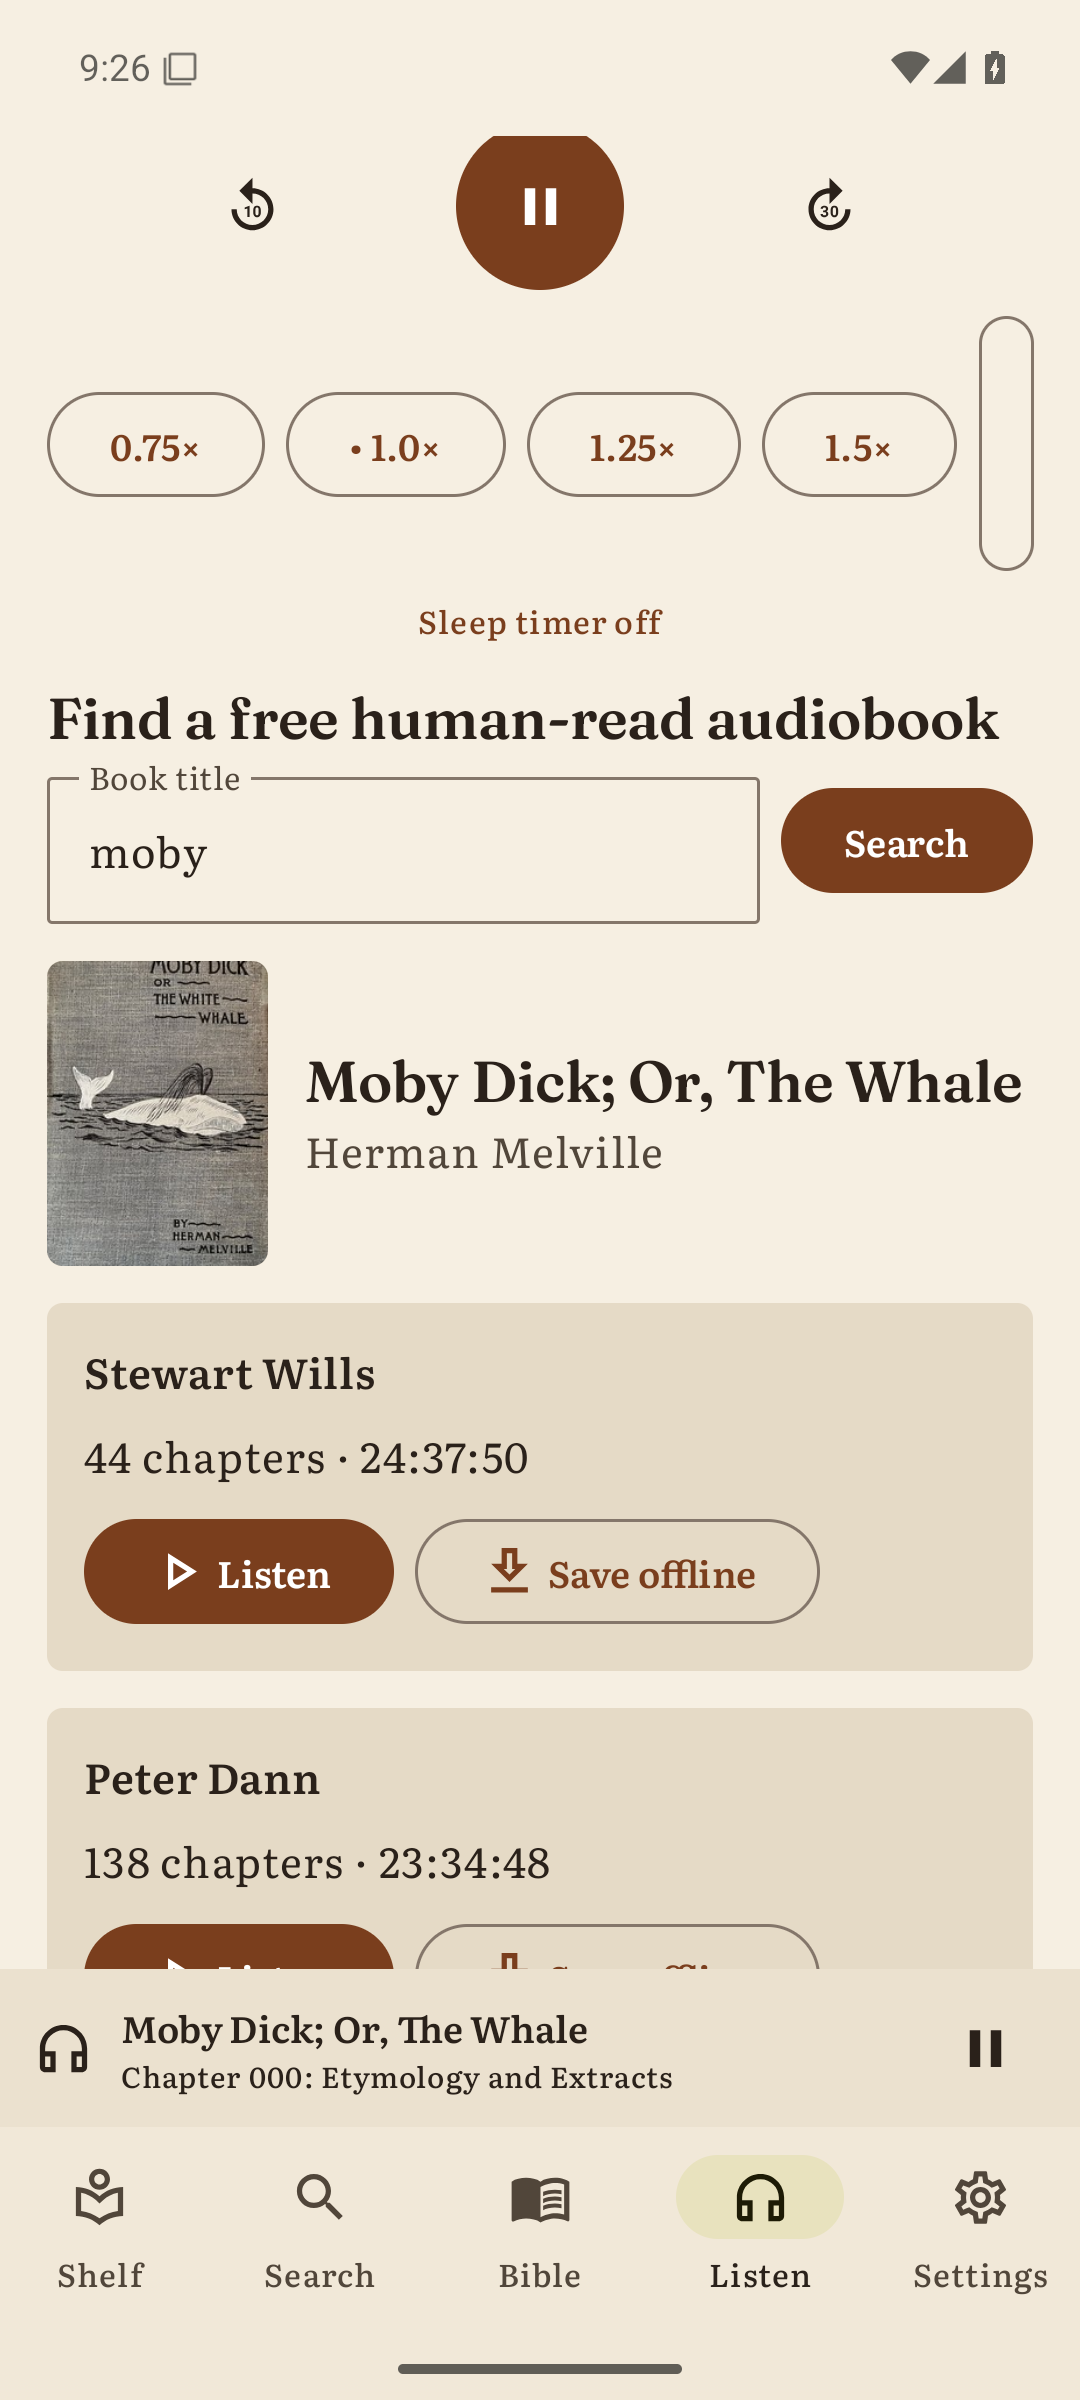
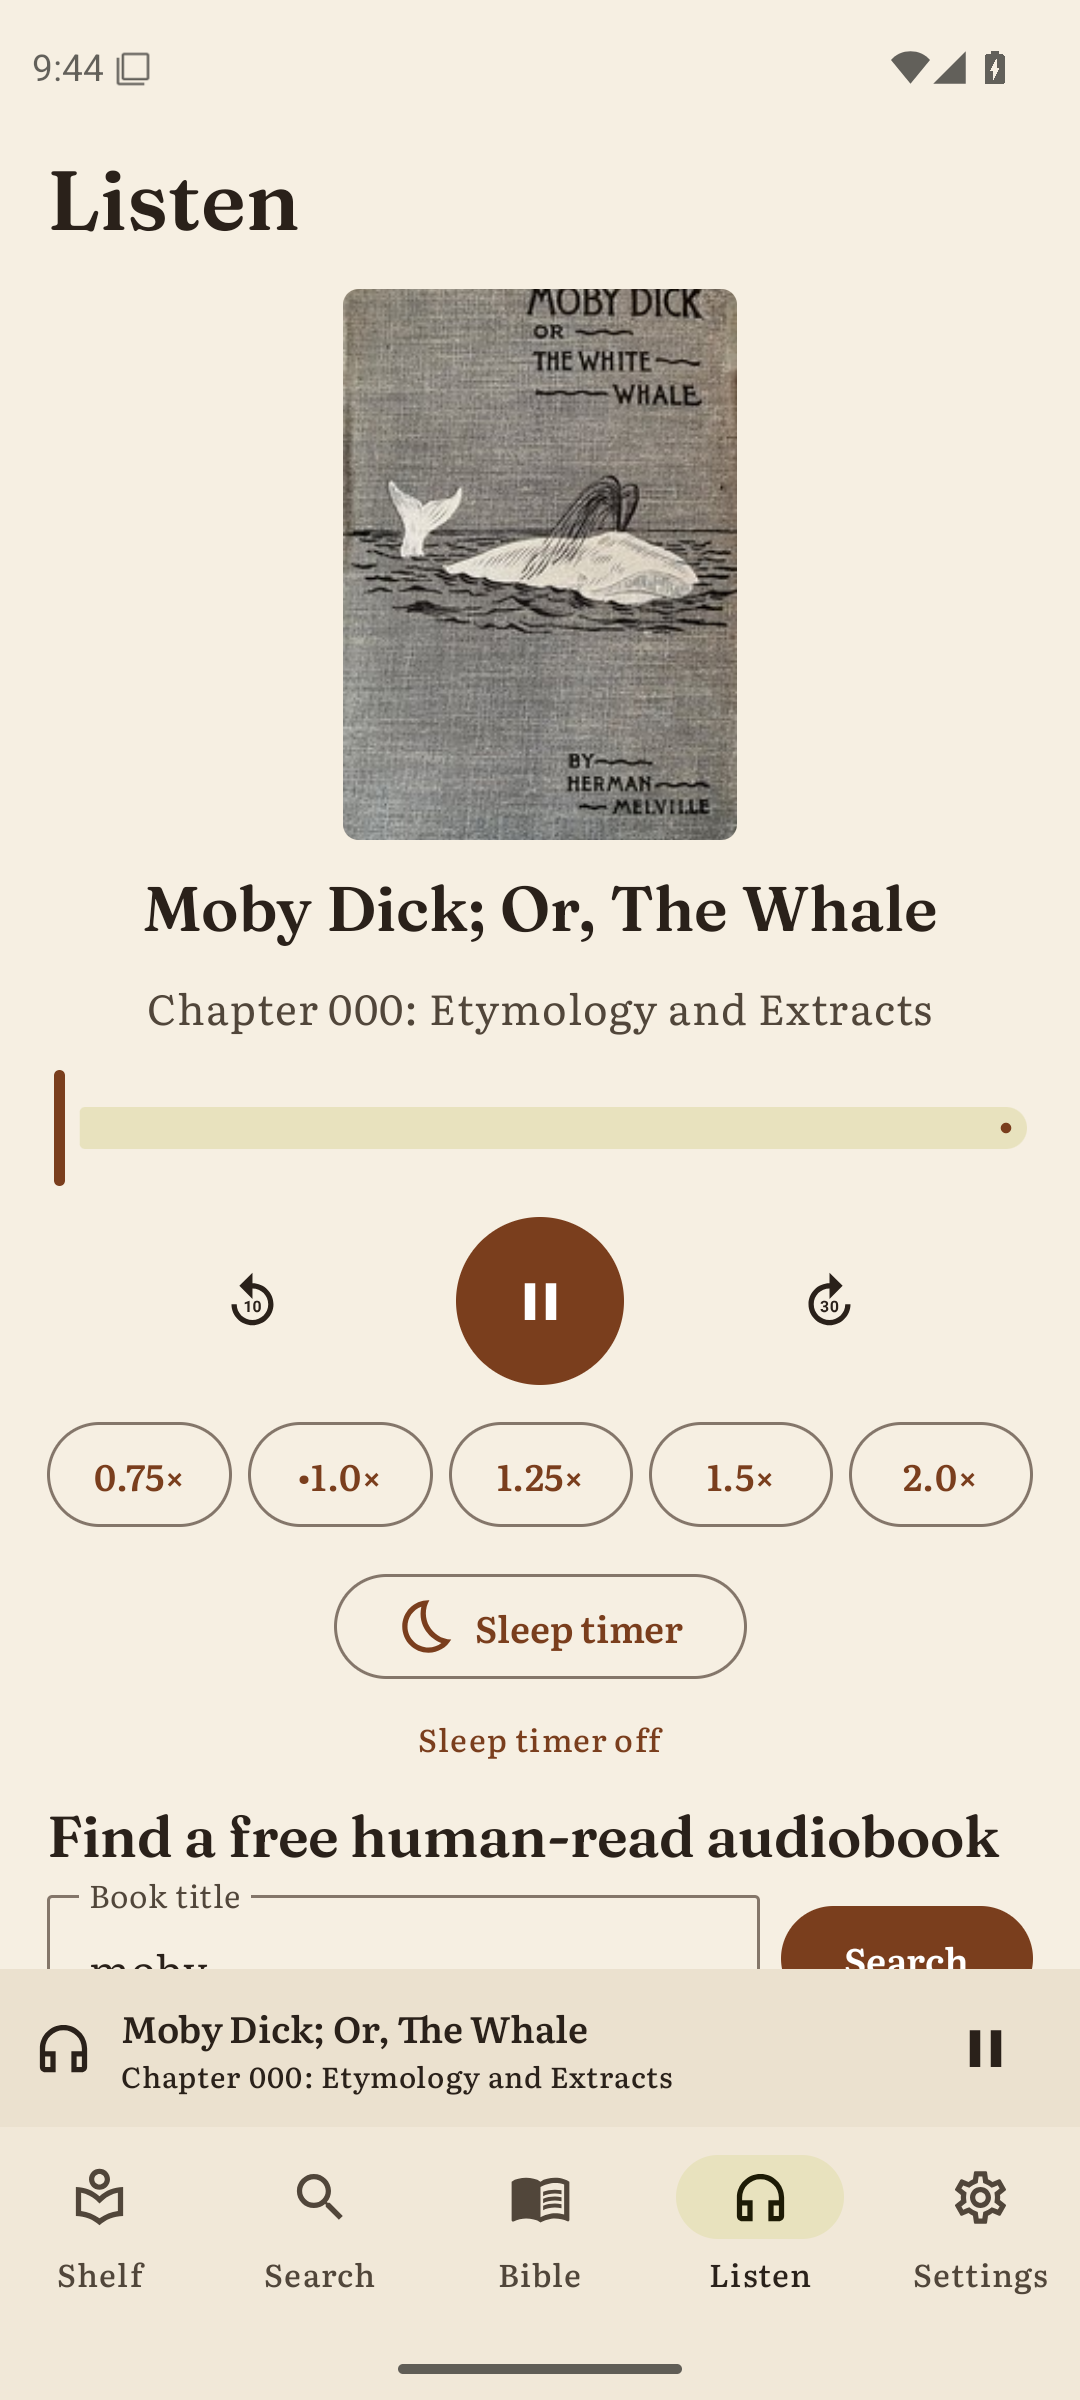
M2: fix clipped speed/sleep controls; verified end-of-chapter sleep timer

diff --git a/native-android/app/src/main/java/com/mavislibrary/app/ui/listen/ListenScreen.kt b/native-android/app/src/main/java/com/mavislibrary/app/ui/listen/ListenScreen.kt
@@ -198,18 +198,22 @@ private fun NativePlayer(
             }
             IconButton(onClick = onForward) { Icon(Icons.Outlined.Forward30, "Forward 30 seconds") }
         }
-        Row(horizontalArrangement = Arrangement.spacedBy(8.dp), verticalAlignment = Alignment.CenterVertically) {
+        Row(Modifier.fillMaxWidth(), horizontalArrangement = Arrangement.spacedBy(6.dp), verticalAlignment = Alignment.CenterVertically) {
             listOf(.75f, 1f, 1.25f, 1.5f, 2f).forEach { speed ->
-                OutlinedButton(onClick = { onSpeed(speed) }) { Text(if (playback.speed == speed) "• ${speed}×" else "${speed}×") }
+                OutlinedButton(
+                    onClick = { onSpeed(speed) },
+                    modifier = Modifier.weight(1f),
+                    contentPadding = androidx.compose.foundation.layout.PaddingValues(horizontal = 2.dp),
+                ) { Text(if (playback.speed == speed) "•${speed}×" else "${speed}×", maxLines = 1, softWrap = false) }
             }
-            Box {
-                IconButton(onClick = { sleepOpen = true }) { Icon(Icons.Outlined.Bedtime, "Sleep timer") }
-                DropdownMenu(sleepOpen, { sleepOpen = false }) {
+        }
+        Box {
+            OutlinedButton(onClick = { sleepOpen = true }) { Icon(Icons.Outlined.Bedtime, null); Text("  Sleep timer") }
+            DropdownMenu(sleepOpen, { sleepOpen = false }) {
                     listOf(15, 30, 45, 60).forEach { m -> DropdownMenuItem({ Text("$m minutes") }, { onSleep("mavis.sleep.$m"); sleepLabel = "Stops in $m minutes"; sleepOpen = false }) }
                     DropdownMenuItem({ Text("End of chapter") }, { onSleep(AudioCommands.SLEEP_CHAPTER); sleepLabel = "Stops at end of chapter"; sleepOpen = false })
                     DropdownMenuItem({ Text("Off") }, { onSleep(AudioCommands.SLEEP_CANCEL); sleepLabel = "Sleep timer off"; sleepOpen = false })
                 }
-            }
         }
         Text(sleepLabel, style = MaterialTheme.typography.labelMedium, color = MaterialTheme.colorScheme.primary)
     }

diff --git a/native-android/RECEIPT-M2.md b/native-android/RECEIPT-M2.md
@@ -88,3 +88,8 @@ This receipt is committed separately and last. No push was performed.
 - VERIFIED playing Moby Dick: position 15s -> 30s -> 45s, state PLAYING, 0 playback errors. Screen truly OFF (mWakefulness=Asleep): 84s -> 102s over 20s. Play/pause key and media_session dispatch pause/play both work. Foreground service + media notification present.
 - archive.org returns 500/503 for some files (e.g. Pride and Prejudice ch1-4, reproduced with curl from host). Added load-error retry policy (8) and bare-host URL; built, NOT yet verified against that file.
 - NOT verified: sleep timer start/fade, notification contents, drive mode, volume-key page turns, haptics, offline-saved playback.
+
+## Hermes round 3 (emulator, API 35) - sleep timer + layout
+- Layout defect found by screenshot: the speed row overflowed, so the 2.0x button and the sleep-timer icon were clipped off the right edge and unusable. Fixed: speed buttons share the row equally; sleep timer is now a labeled "Sleep timer" button. Verified screenshot: all five speeds visible, menu shows 15/30/45/60 minutes, End of chapter, Off, unclipped.
+- VERIFIED sleep timer (End of chapter): label changed to "Stops at end of chapter"; seeked near chapter end; playback kept running to the boundary, then state went PLAYING -> PAUSED at position 18 ms of the next chapter and stayed paused 8+ s (did not roll into chapter 2).
+- NOT verified: the volume fade curve itself, timed (15/30/45/60) timers, shake-to-extend, notification contents, drive mode, volume-key page turns, haptics, offline-saved playback.
